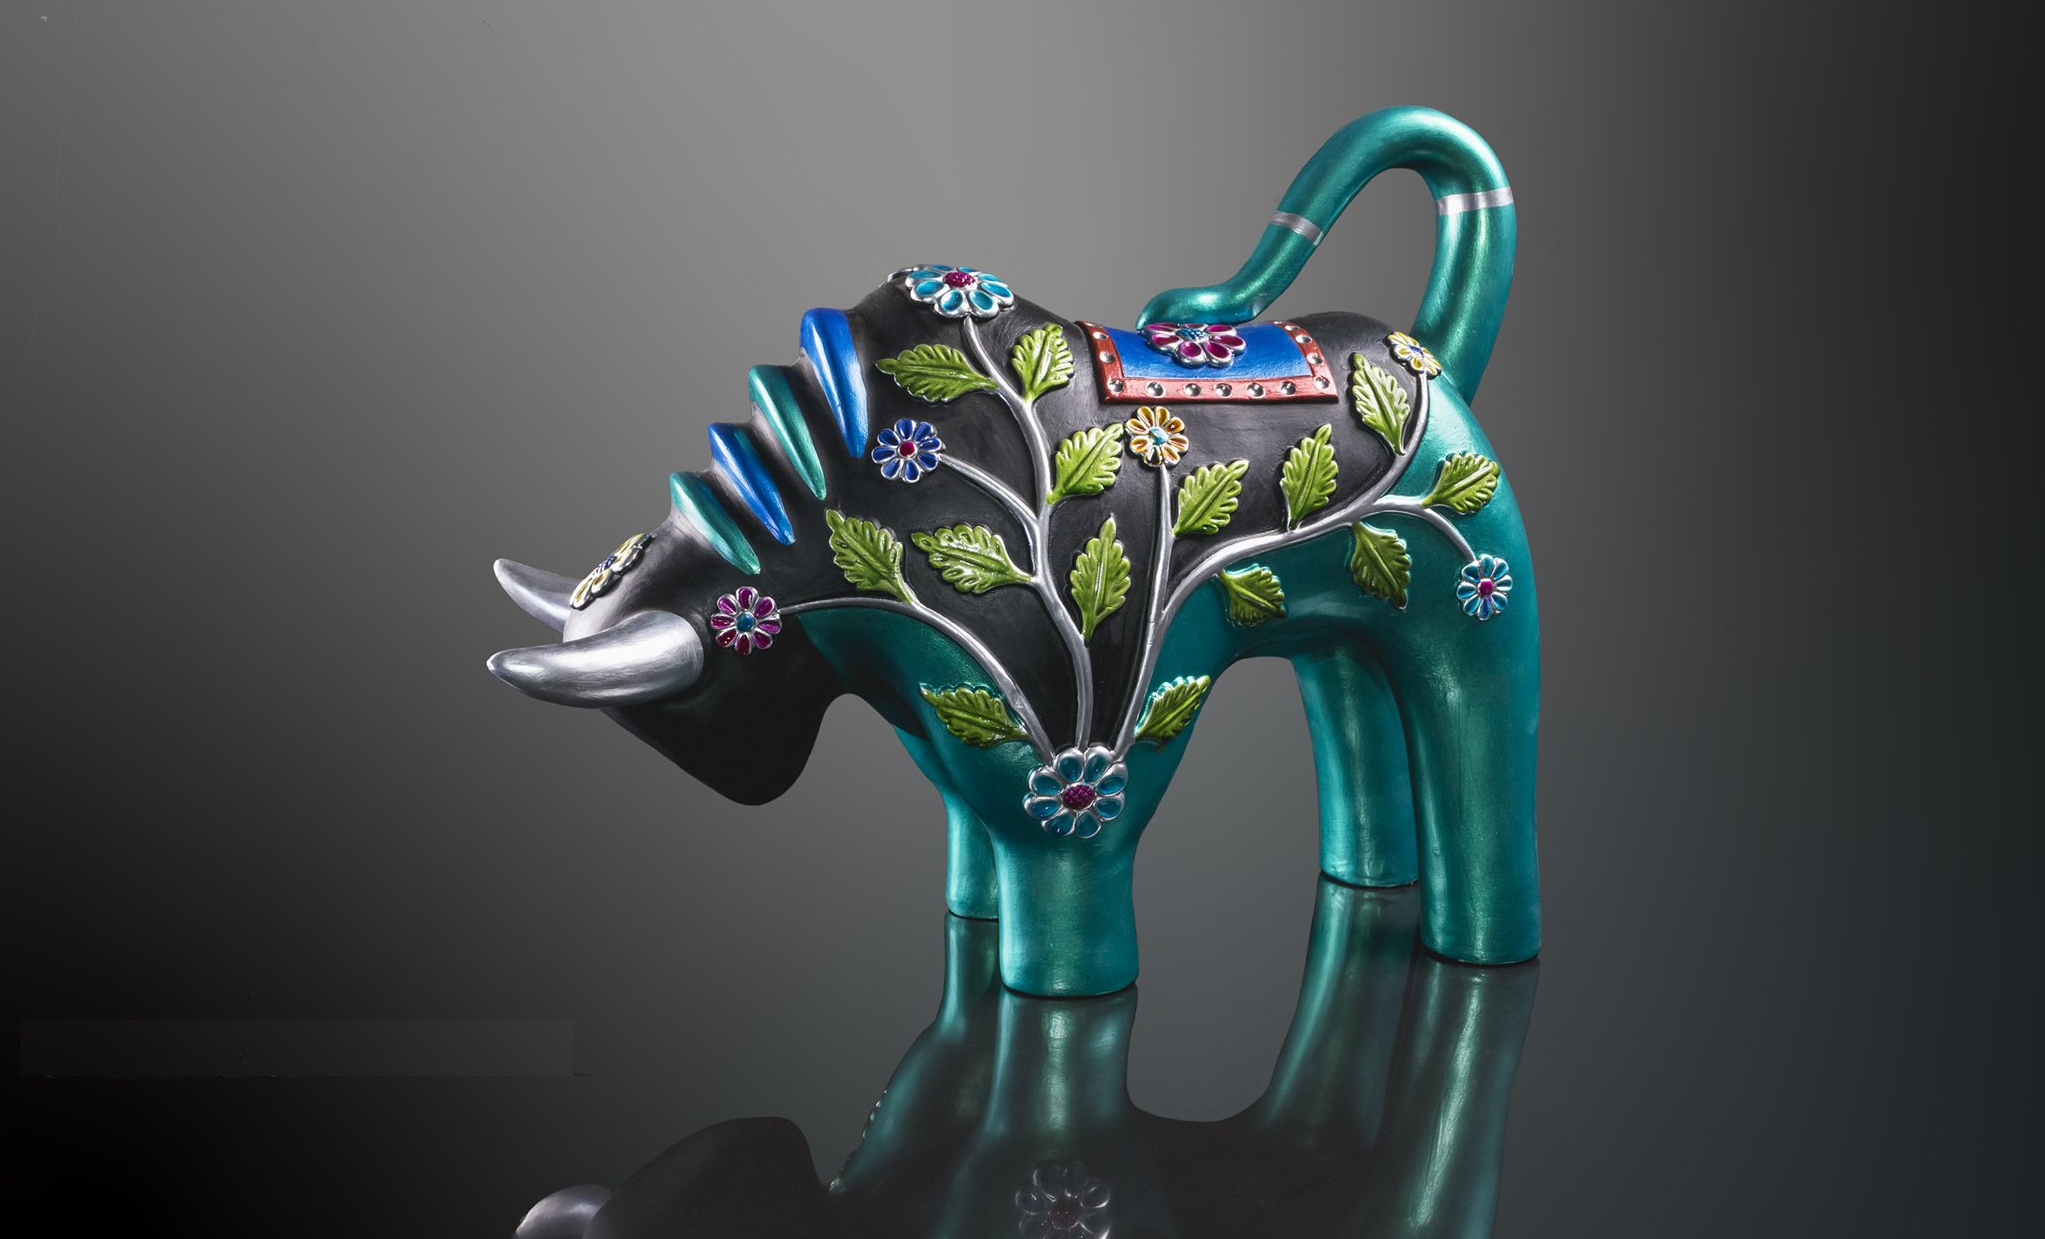
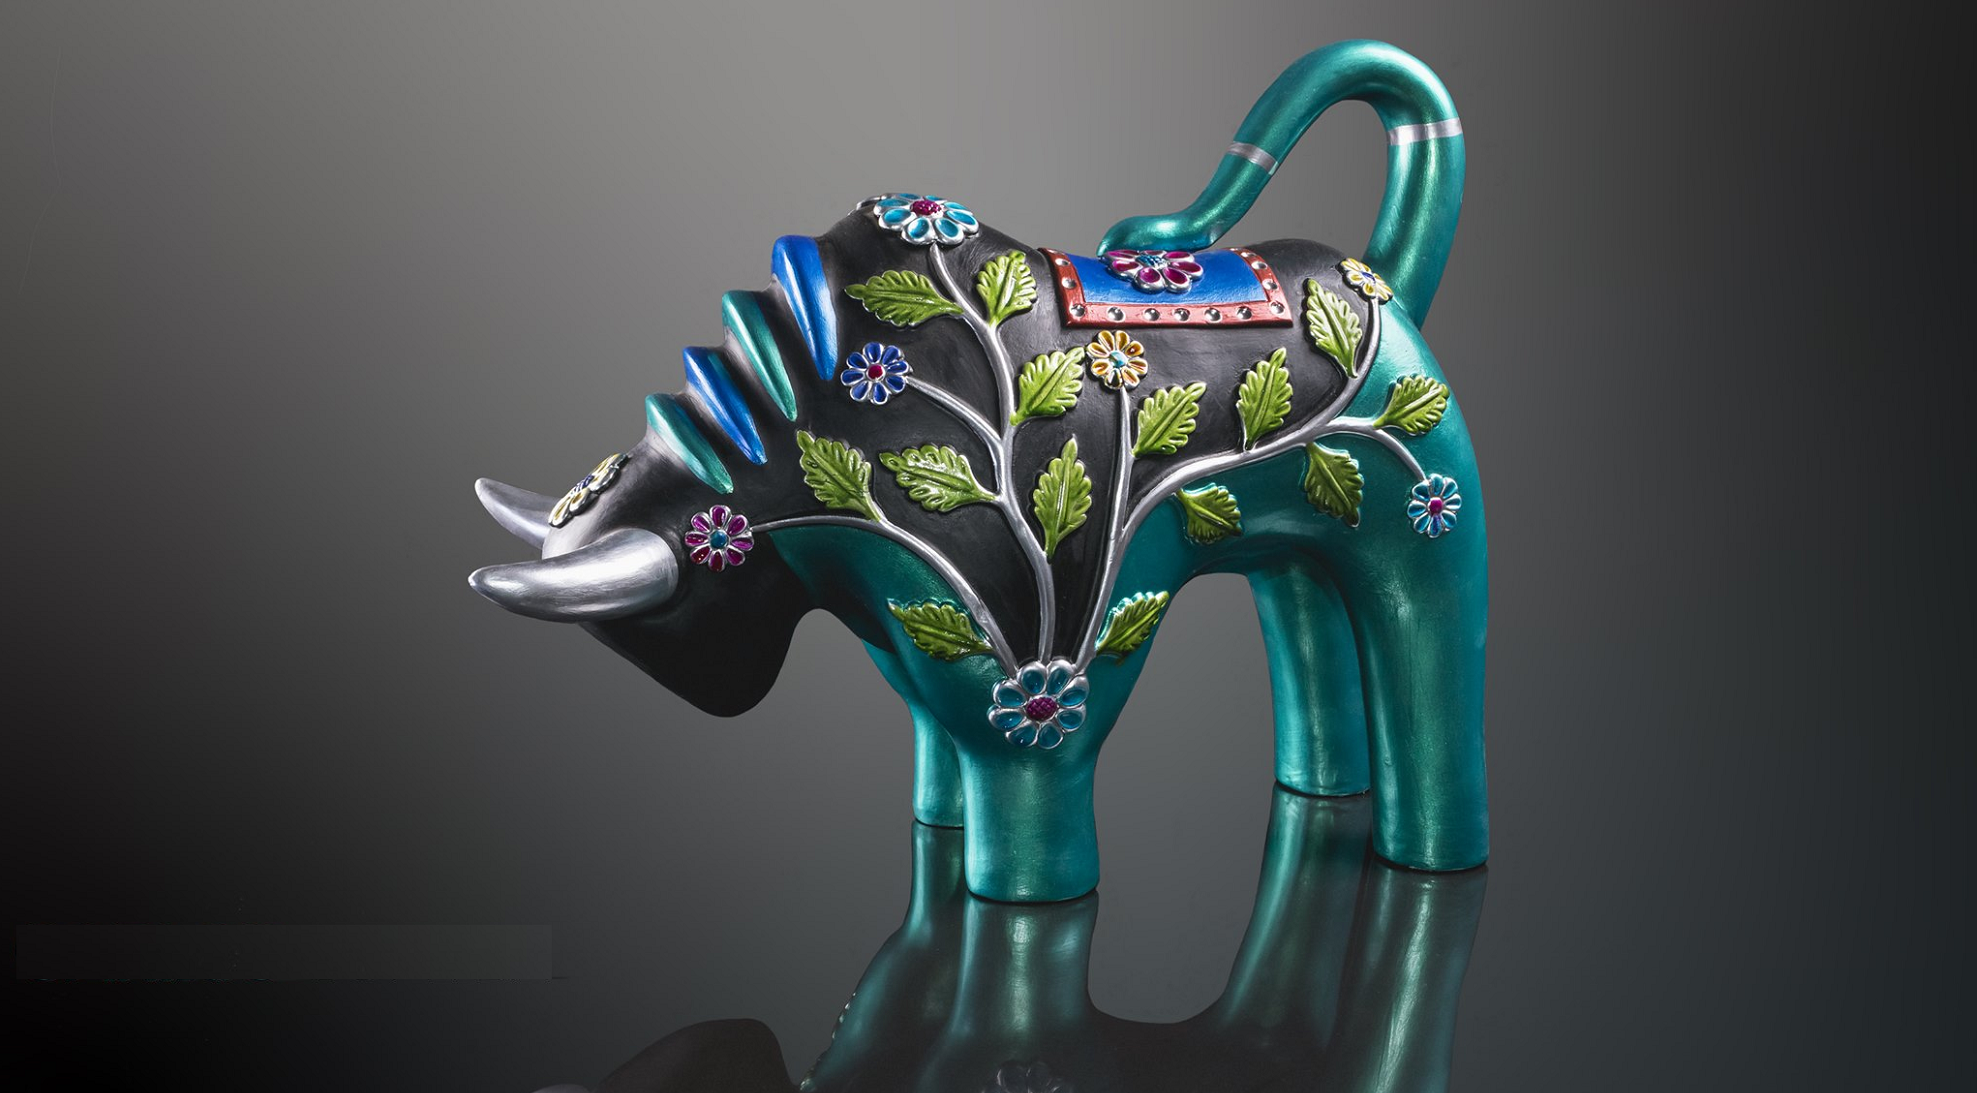
slideshow auto

Changed region(s): [[0.216, 0.0311, 0.7714, 1.0], [0.2468, 0.9643, 0.3085, 1.0], [0.3394, 0.6221, 0.3703, 0.6532]]

diff --git a/css/main.css b/css/main.css
@@ -1457,20 +1457,44 @@ a.btn-nav .btn {
 .bg-white a {
   color: #555 !important;
 }
+.slideshow-container {
+  position: relative;
+  margin: auto;
+}
 
+.mySlides {
+  display: none;
+}
+
+/* Fading animation */
+.fade {
+  -webkit-animation-name: fade;
+  -webkit-animation-duration: 3s;
+  animation-name: fade;
+  animation-duration: 3s;
+}
+
+@-webkit-keyframes fade {
+  from {opacity: .4}
+  to {opacity: 1}
+}
+
+@keyframes fade {
+  from {opacity: .4}
+  to {opacity: 1}
+}
 /* Intro */
 .intro {
   display: table;
   text-align: center;
   width: 100%;
-  background-image: url(../img/main/toro.png);
   color: #fff;
   text-shadow: 0 1px 3px rgba(184, 143, 143, 0.2);
   overflow: hidden;
   /* position: relative; */
   background-repeat: no-repeat;
   background-position: center center;
-  height: 100% !important;
+  /* height: 100% !important; */
   z-index: 0;
   -webkit-background-size: cover;
   -moz-background-size: cover;
@@ -3025,6 +3049,10 @@ nav.nav-demo {
     height: 80% !important;
     background-image: url(../img/main/palla.png);
   }
+  .slideshow-container {
+    display: none;
+  }
+
   .intro h1 {
     font-size: 30px !important;
     line-height: 40px !important;

diff --git a/index.html b/index.html
@@ -59,14 +59,21 @@
     </nav>
     <!-- Header-->
     <header class="intro">
-      <div class="overlay"></div>
-      <div class="intro-body">
-        <div class="row">
-          <div class="col-lg-12">
-            <img class="img_logo" src="img/logo.png" width="280px">
-          </div>
+      <div class="slideshow-container">
+        <!-- Full-width images with number and caption text -->
+        <div class="mySlides">
+          <img src="img/main/toro.png" style="width:100%">
+        </div>
+      
+        <div class="mySlides">
+          <img src="img/main/torin.png" style="width:100%">
+        </div>
+      
+        <div class="mySlides">
+          <img src="img/main/torito.png" style="width:100%">
         </div>
       </div>
+      <br>
     </header>
     <!-- Teaser 2-->
     <div class="container text-center box-shadow showcase">

diff --git a/js/main.js b/js/main.js
@@ -494,5 +494,20 @@
             }
         });
 
+        var slideIndex = 0;
+showSlides();
+
+function showSlides() {
+  var i;
+  var slides = document.getElementsByClassName("mySlides");
+  for (i = 0; i < slides.length; i++) {
+    slides[i].style.display = "none";
+  }
+  slideIndex++;
+  if (slideIndex > slides.length) {slideIndex = 1}
+  slides[slideIndex-1].style.display = "block";
+  setTimeout(showSlides, 6000); // Change image every 2 seconds
+}
+
     });
 })(jQuery);
